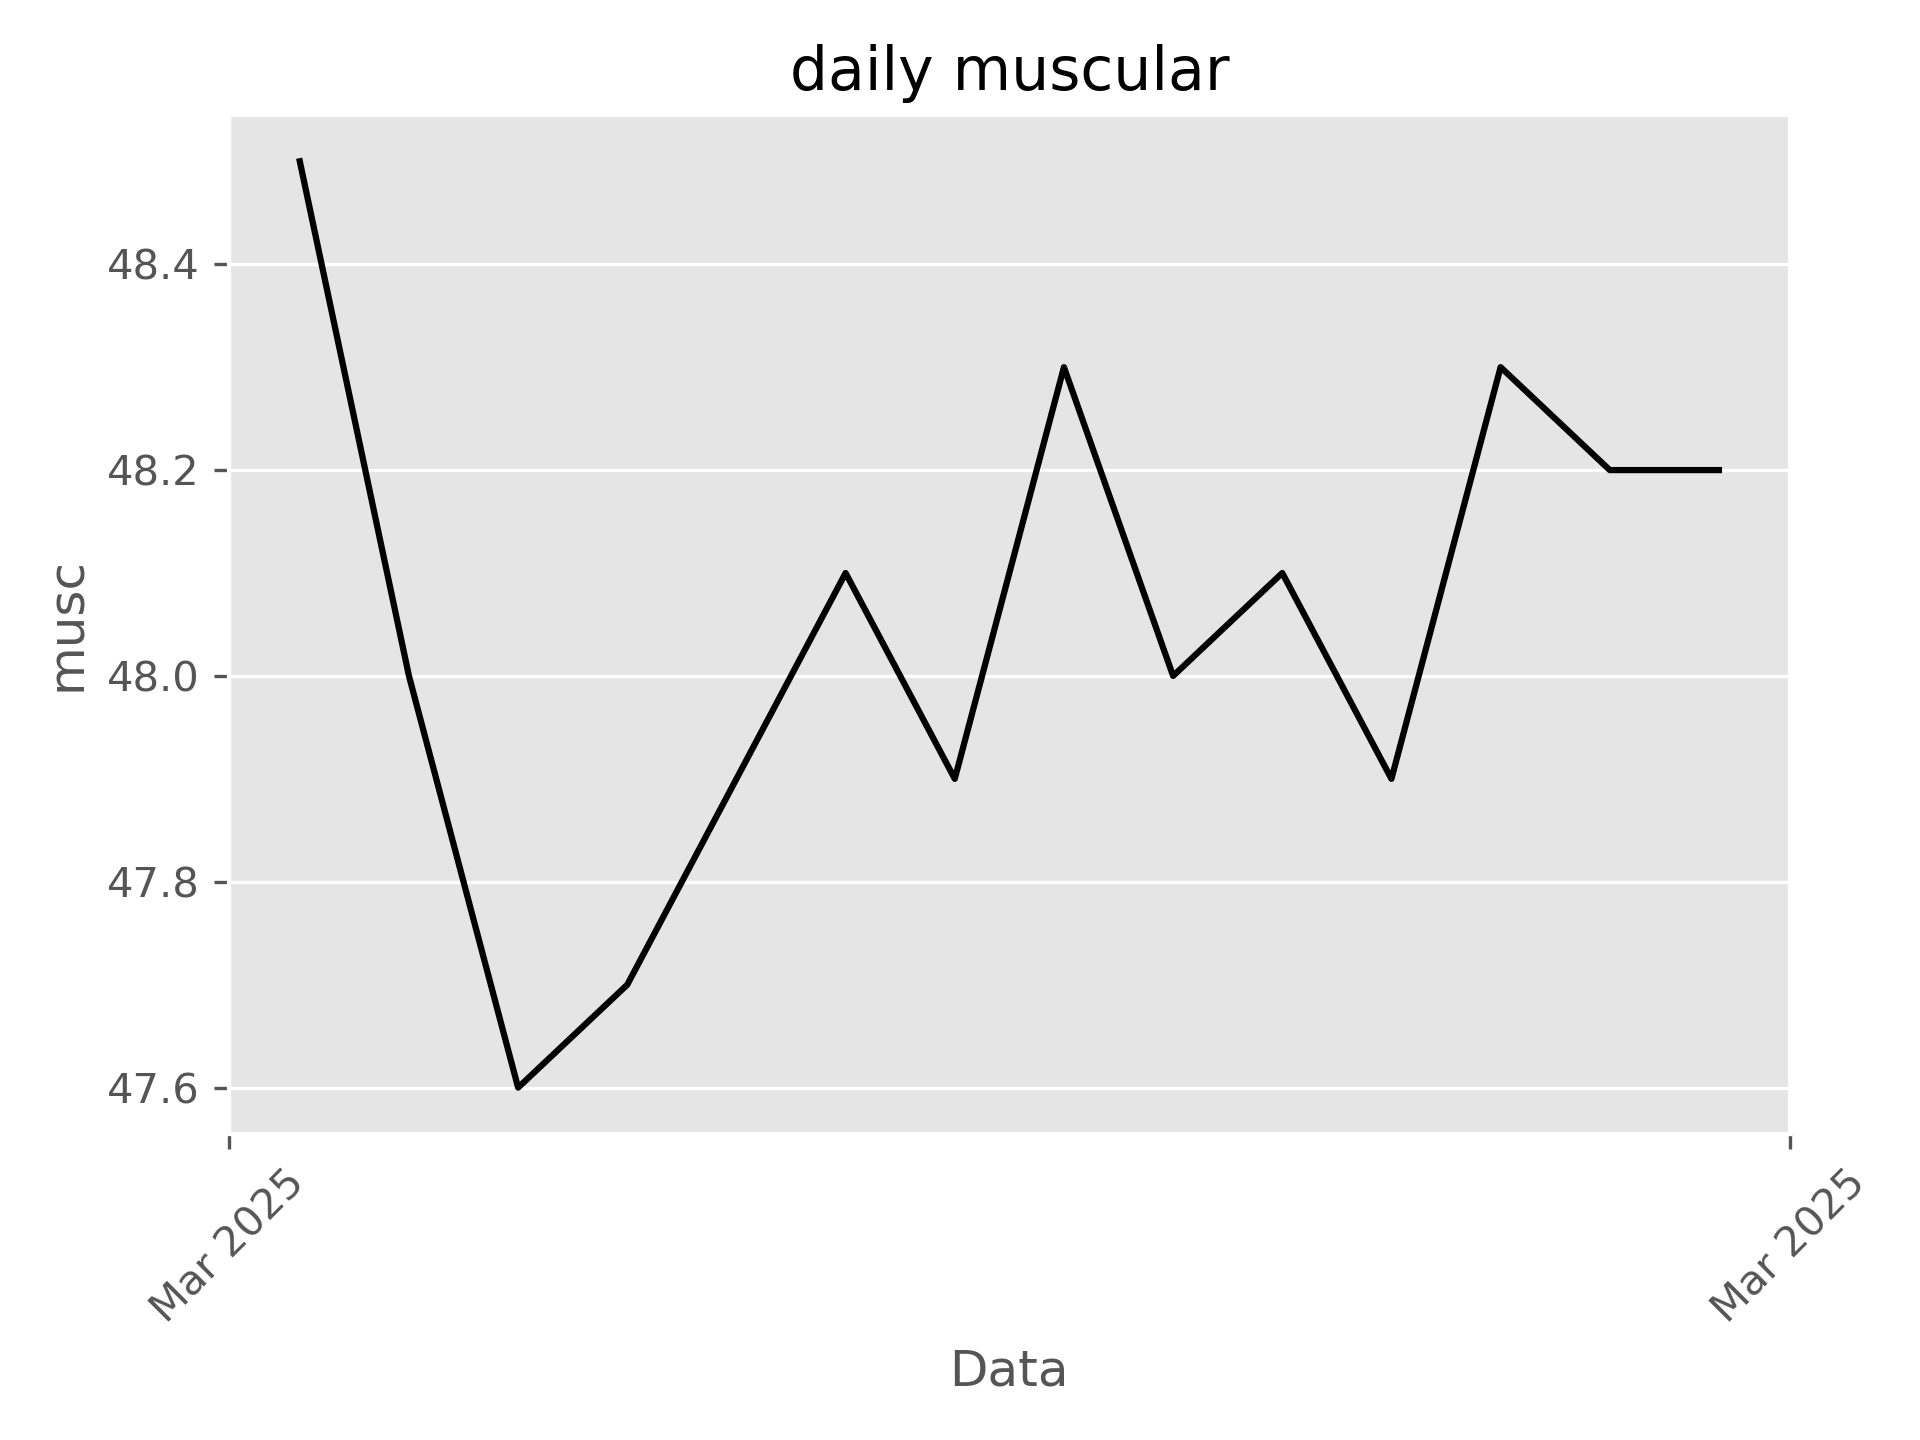
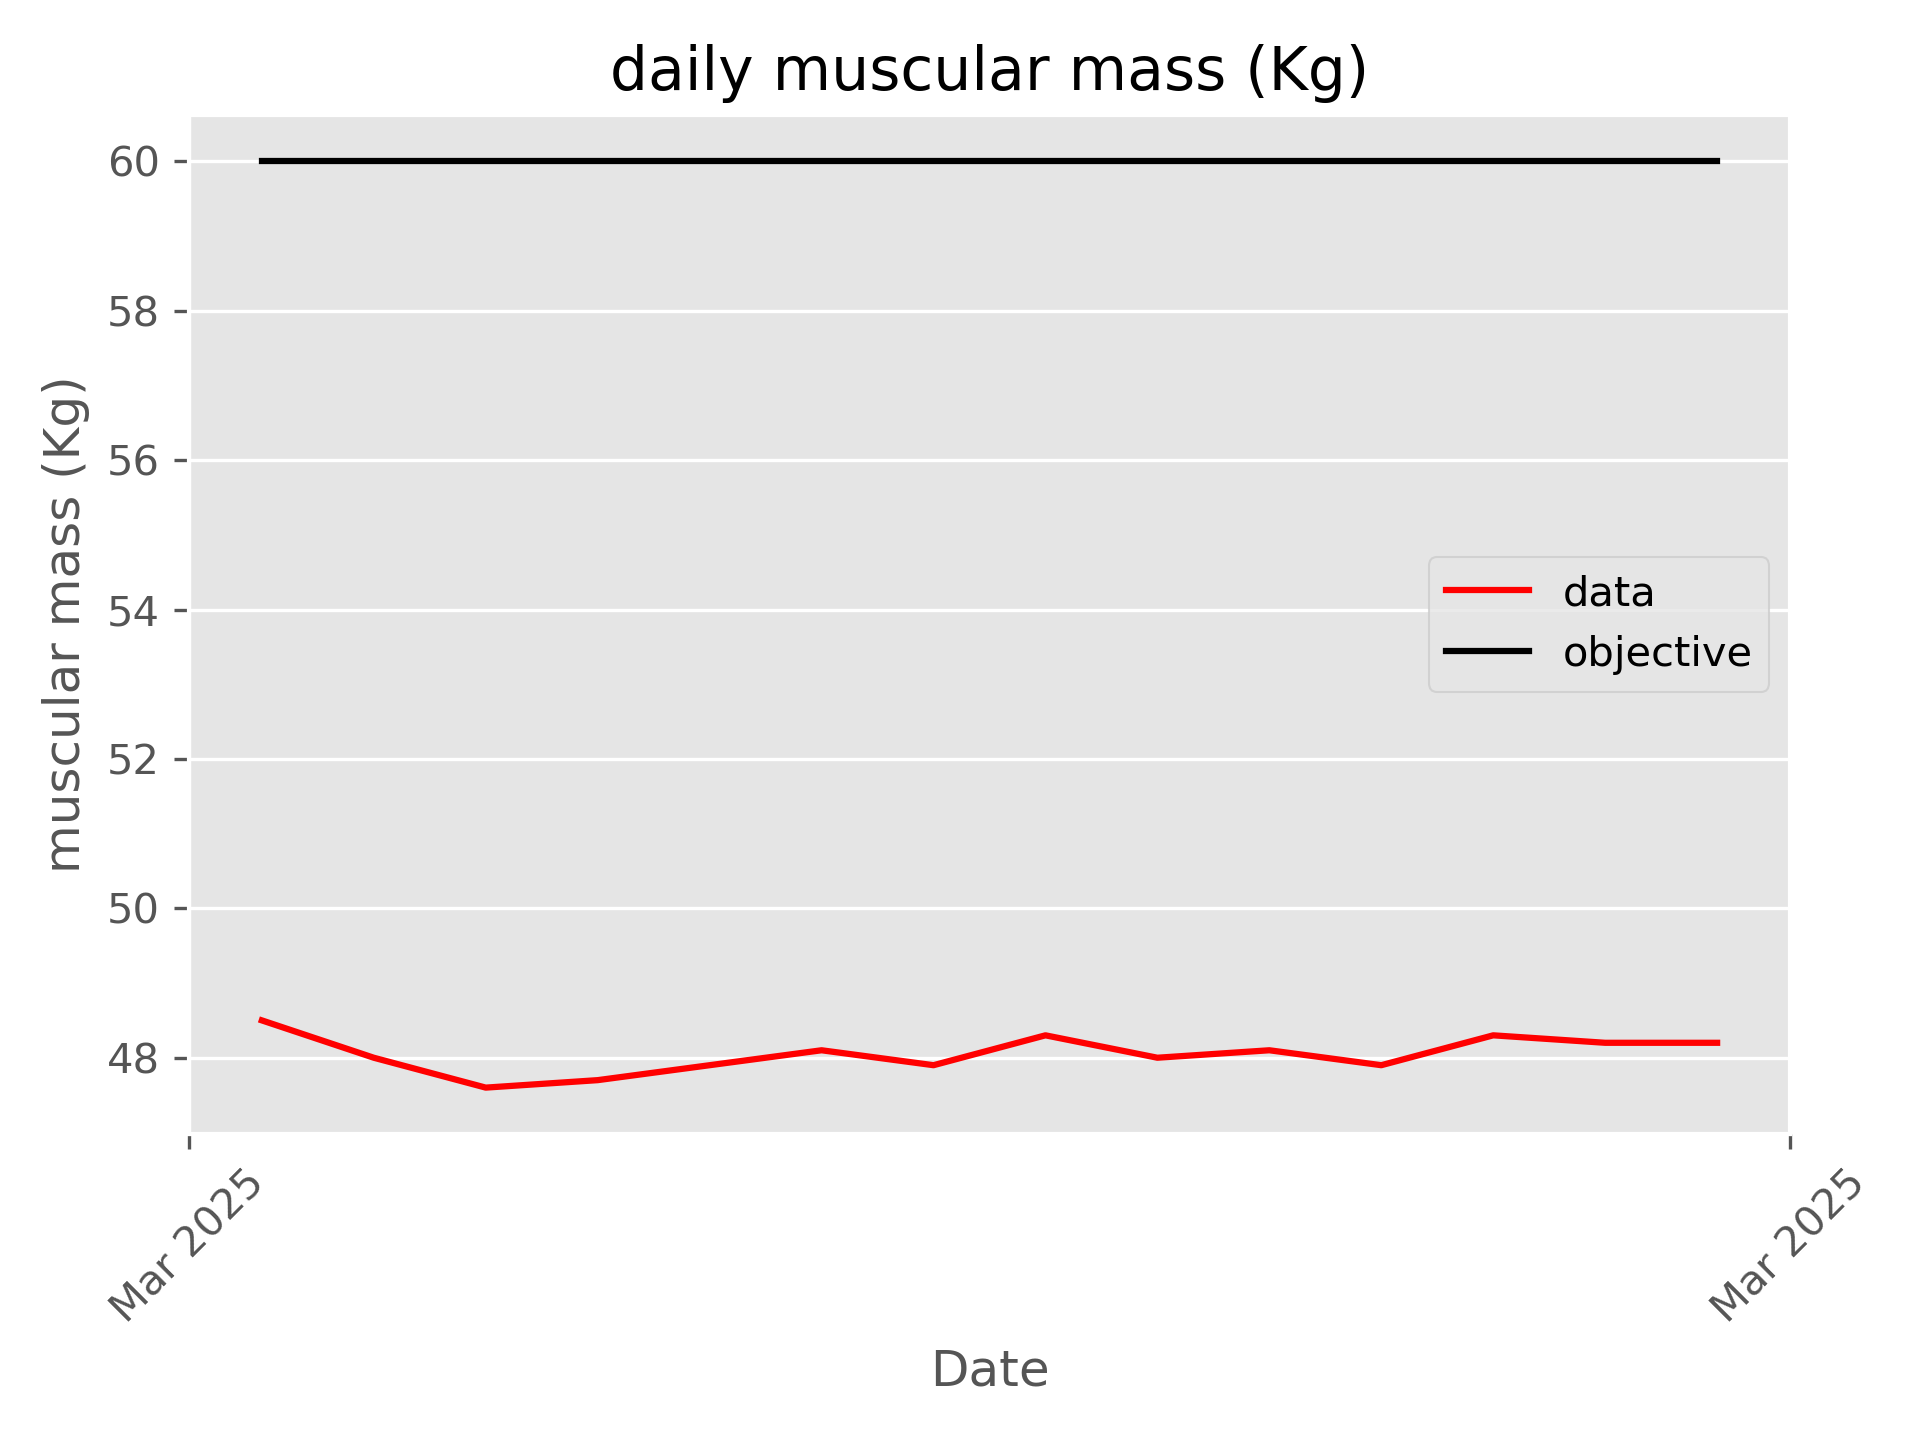
add new information about muscular mass and objective

diff --git a/update.py b/update.py
@@ -19,6 +19,7 @@ fat_v_obj = np.ones(len(fat_v))*12
 muscular_mass = pd.read_csv('files/muscular_mass.txt')
 musc_v = muscular_mass.iloc[:,1]
 musc_dt = pd.to_datetime(muscular_mass.iloc[:,0], format='%d/%m/%Y')
+musc_v_obj = np.ones(len(musc_v))*60
 
 protein = pd.read_csv('files/protein.txt')
 protein_v=protein.iloc[:,1]
@@ -72,11 +73,13 @@ plt.savefig('image/daily_protein.png', dpi=300)
 plt.close()
 
 #muscular mass
-plt.plot(musc_dt, musc_v, color='black')
-plt.ylabel('musc')
-plt.title('daily muscular')
-plt.xlabel('Data')
-#plt.legend()
+plt.plot(musc_dt, musc_v, color='red', label='data')
+plt.plot(musc_dt, musc_v_obj, color='black',label='objective')
+musc_v_obj = np.ones(len(musc_v))*60
+plt.ylabel('muscular mass (Kg)')
+plt.title('daily muscular mass (Kg)')
+plt.xlabel('Date')
+plt.legend()
 plt.gca().xaxis.set_major_formatter(mdates.DateFormatter("%b %Y"))  # Exemplo: 'Jan 2023'
 plt.gca().xaxis.set_major_locator(mdates.MonthLocator())  # Colocar um marcador por mês
 # Melhorar a visualização das labels no eixo X
